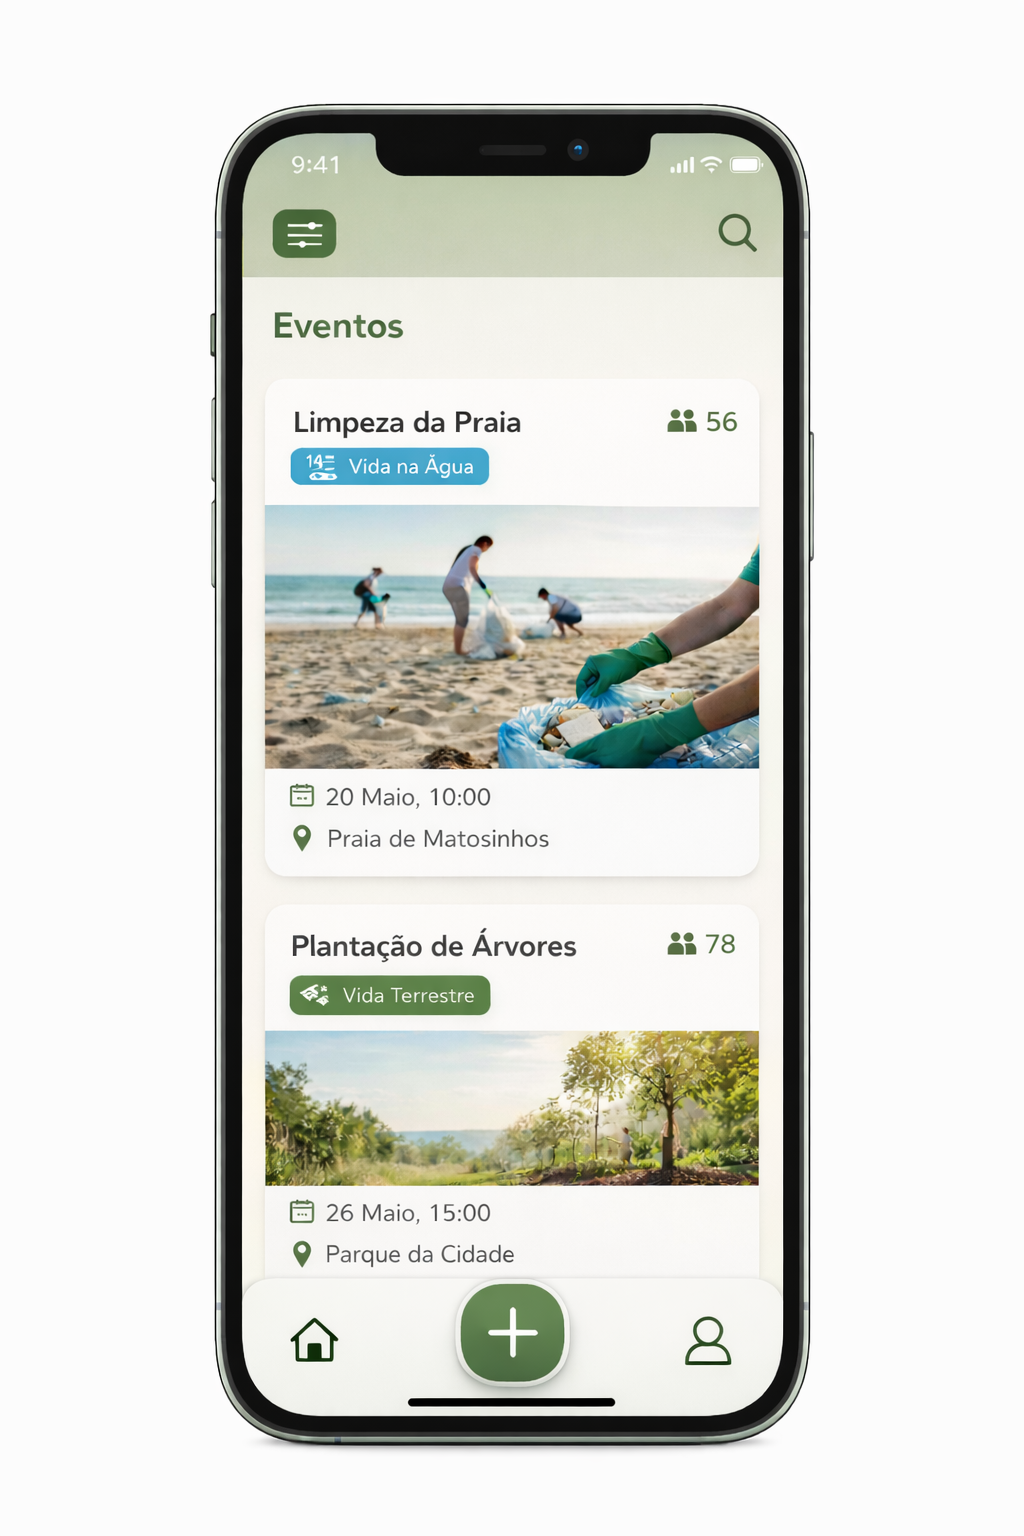
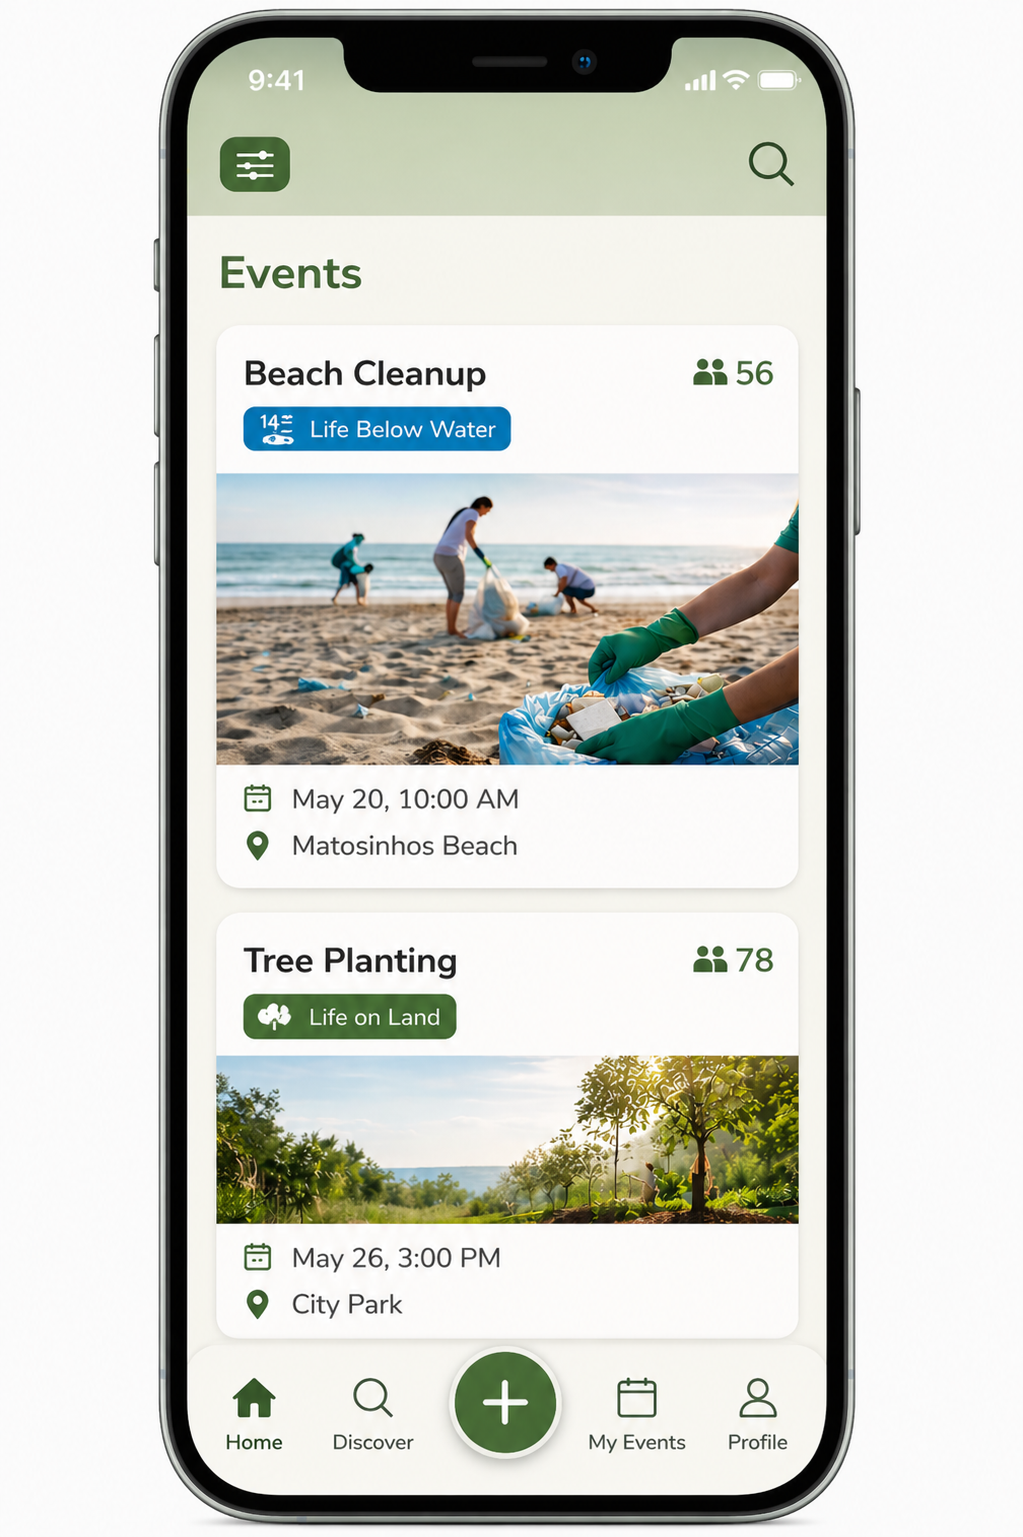
feat: feed

diff --git a/lib/views/widgets/bottom_nav.dart b/lib/views/widgets/bottom_nav.dart
@@ -27,13 +27,26 @@ class AppBottomNav extends StatelessWidget {
         mainAxisAlignment: MainAxisAlignment.spaceAround,
         children: [
           // HOME
-          IconButton(
-            icon: Icon(
-              Icons.home,
-              size: 28,
-              color: currentIndex == 0 ? Palette.primary : Colors.grey,
+          GestureDetector(
+            onTap: () => onTap(0),
+            child: Column(
+              mainAxisAlignment: MainAxisAlignment.center,
+              children: [
+                Icon(
+                  Icons.home,
+                  size: 28,
+                  color: currentIndex == 0 ? Palette.primary : Colors.grey,
+                ),
+                const SizedBox(height: 2),
+                Text(
+                  "Home",
+                  style: TextStyle(
+                    fontSize: 12,
+                    color: currentIndex == 0 ? Palette.primary : Colors.grey,
+                  ),
+                ),
+              ],
             ),
-            onPressed: () => onTap(0),
           ),
 
           // BOTTON +
@@ -41,27 +54,55 @@ class AppBottomNav extends StatelessWidget {
             color: Colors.transparent,
             child: InkWell(
               onTap: onAddPressed,
-              borderRadius: BorderRadius.circular(14),
+              borderRadius: BorderRadius.circular(50),
               child: Ink(
-                height: 48,
-                width: 48,
+                height: 60,
+                width: 60,
                 decoration: BoxDecoration(
-                  color: Palette.primary.withAlpha(180),
-                  borderRadius: BorderRadius.circular(14),
+                  shape: BoxShape.circle,
+                  color: Palette.primary,
+                  border: Border.all(
+                    color: Colors.white, // cor da borda
+                    width: 4,            // espessura da borda
+                  ),
+                  boxShadow: [
+                    BoxShadow(
+                      color: Colors.black.withAlpha(40),
+                      blurRadius: 8,
+                      offset: const Offset(0, 3),
+                    ),
+                  ],
                 ),
-                child: const Icon(Icons.add, color: Colors.white, size: 28),
+                child: const Icon(
+                  Icons.add,
+                  color: Colors.white,
+                  size: 32,
+                ),
               ),
             ),
           ),
 
           // USER
-          IconButton(
-            icon: Icon(
-              Icons.person,
-              size: 28,
-              color: currentIndex == 1 ? Palette.primary : Colors.grey,
+          GestureDetector(
+            onTap: () => onTap(1),
+            child: Column(
+              mainAxisAlignment: MainAxisAlignment.center,
+              children: [
+                Icon(
+                  Icons.person,
+                  size: 28,
+                  color: currentIndex == 1 ? Palette.primary : Colors.grey,
+                ),
+                const SizedBox(height: 2),
+                Text(
+                  "Profile",
+                  style: TextStyle(
+                    fontSize: 12,
+                    color: currentIndex == 1 ? Palette.primary : Colors.grey,
+                  ),
+                ),
+              ],
             ),
-            onPressed: () => onTap(1),
           ),
         ],
       ),
